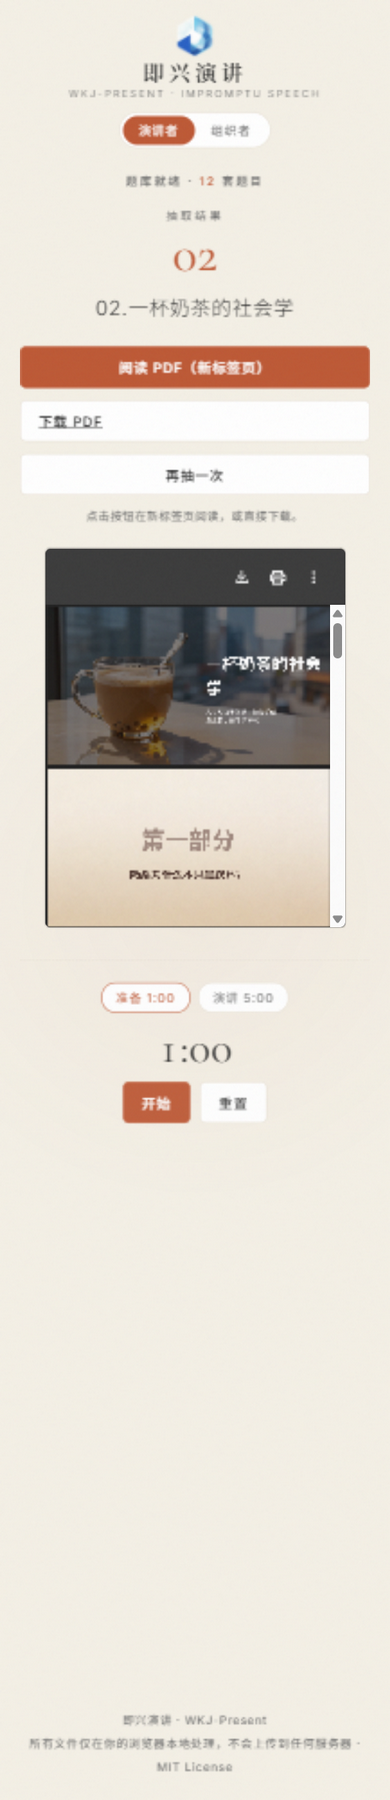
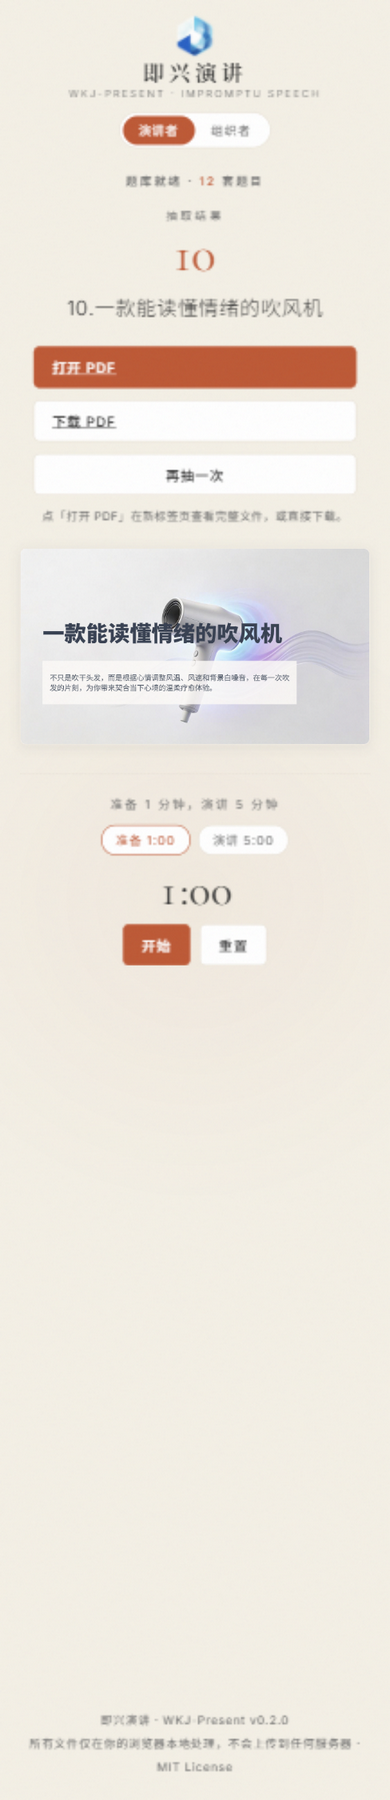
feat: 抽签结果改为页面内第一页预览，打开动作交还用户 (v0.2.0)
- 取消抽签后自动新开标签页；删除相关提示文案
- 结果区按钮调整为「打开 PDF」(锚点原生新开) +「下载 PDF」
- 移除内嵌 iframe 查看器，改为 PDF.js 渲染的 PDF 第一页静态图
  （CDN 懒加载，cdnjs→jsdelivr 依次降级，15s 步骤超时，失败提示不阻断流程）
- 计时区归拢为独立区块，呈现「准备 1 分钟，演讲 5 分钟」
- 同步 README 交互描述与隐私口径；截图表更新为 v0.2.0 界面

diff --git a/index.html b/index.html
@@ -398,15 +398,23 @@
             letter-spacing: 0.08em;
         }
 
-        /* Preview */
-        .preview-frame {
+        /* First-page preview (rendered by PDF.js) */
+        #previewArea {
+            width: 100%;
+            display: flex;
+            flex-direction: column;
+            align-items: center;
+        }
+
+        .page-canvas {
             margin-top: 24px;
             width: 100%;
             max-width: 640px;
-            height: 480px;
+            display: block;
             border: 1px solid var(--color-border);
             border-radius: 6px;
-            background: var(--color-surface-hover);
+            background: #fff;
+            box-shadow: 0 2px 12px rgba(44, 44, 44, 0.08);
         }
 
         .preview-fallback {
@@ -431,6 +439,13 @@
             border-top: 1px dashed var(--color-border);
             text-align: center;
             animation: fadeIn 0.8s ease 0.2s both;
+        }
+
+        .timer-caption {
+            font-size: 0.75rem;
+            letter-spacing: 0.2em;
+            color: var(--color-text-secondary);
+            margin-bottom: 12px;
         }
 
         .timer-presets {
@@ -909,7 +924,7 @@
                 <div class="landed-no" id="landedNo"></div>
                 <h2 class="landed-title" id="landedTitle"></h2>
                 <div class="landed-actions">
-                    <button type="button" class="btn btn-primary" id="openPdfBtn">阅读 PDF（新标签页）</button>
+                    <a class="btn btn-primary" id="openPdfBtn" target="_blank" rel="noopener">打开 PDF</a>
                     <a class="btn" id="downloadPdfBtn" download>下载 PDF</a>
                     <button type="button" class="btn" id="redrawBtn">再抽一次</button>
                 </div>
@@ -918,6 +933,7 @@
 
                 <!-- 计时 -->
                 <section class="timer-section" aria-label="演讲计时器">
+                    <p class="timer-caption">准备 1 分钟，演讲 5 分钟</p>
                     <div class="timer-presets">
                         <button type="button" class="timer-preset active" data-seconds="60" id="presetPrep">准备 1:00</button>
                         <button type="button" class="timer-preset" data-seconds="300" id="presetSpeech">演讲 5:00</button>
@@ -1007,7 +1023,7 @@
     </main>
 
     <footer class="footer">
-        即兴演讲 · WKJ-Present<br>
+        即兴演讲 · WKJ-Present <span id="appVersion">v0.2.0</span><br>
         所有文件仅在你的浏览器本地处理，不会上传到任何服务器 · MIT License
     </footer>
 
@@ -1086,11 +1102,10 @@
             isDrawing: false, // 含滚动动画期间
             isRolling: false,
             pdfUrl: null,
-            preOpenWin: null,
+            renderSeq: 0,     // 第一页渲染令牌：重抽/清空后丢弃过期渲染
             mode: 'stage',    // stage | org
         };
 
-        const isMobile = /Android|iPhone|iPad|iPod|Mobile/i.test(navigator.userAgent);
         const COVER_KEY = 'impromptu_cover';
         const REDUCED_MOTION = window.matchMedia && window.matchMedia('(prefers-reduced-motion: reduce)').matches;
 
@@ -1358,6 +1373,7 @@
             els.landed.hidden = true;
             els.reel.hidden = false; // 定格时滚轮被隐藏，重抽前必须恢复，否则第二次滚动动画不可见
             els.previewArea.innerHTML = '';
+            state.renderSeq++; // 作废进行中的第一页渲染
             els.drawBtn.hidden = false;
             els.btnText.textContent = '启动演讲';
             showIdleReel();
@@ -1382,12 +1398,7 @@
                 return;
             }
 
-            // 用户手势栈内同步预开窗口，避免动画结束后打开被弹窗拦截
-            state.preOpenWin = null;
-            try {
-                state.preOpenWin = window.open('about:blank', '_blank');
-            } catch (e) { /* 被拦截时走页面内兜底按钮 */ }
-
+            // 用户手势内立即进入滚动：不预开任何新标签页，打开 PDF 由用户主动点击
             state.isDrawing = true;
             state.isRolling = true;
             els.drawBtn.disabled = true;
@@ -1484,47 +1495,116 @@
             els.landedTitle.textContent = entry.displayName;
             renderProgress();
 
-            // 打开 PDF：优先写入预开窗口
-            let opened = false;
-            const win = state.preOpenWin;
-            state.preOpenWin = null;
-            if (win && !win.closed) {
-                try {
-                    win.location.href = state.pdfUrl;
-                    opened = true;
-                } catch (e) { opened = false; }
-            }
-
-            els.openPdfBtn.hidden = opened;
-            els.landedNote.textContent = opened
-                ? '已在新标签页打开。若浏览器拦截了弹窗，可点「下载 PDF」，或再抽一次。'
-                : (entry.dirLabel ? `来自 ${entry.dirLabel}/ · ` : '') + '点击按钮在新标签页阅读，或直接下载。';
+            // 抽完留在当前页：打开动作交给用户主动触发（锚点原生新开，不用 window.open）
+            els.landedNote.textContent = (entry.dirLabel ? `来自 ${entry.dirLabel}/ · ` : '') + '点「打开 PDF」在新标签页查看完整文件，或直接下载。';
 
             els.downloadPdfBtn.href = state.pdfUrl;
             els.downloadPdfBtn.setAttribute('download', entry.name);
-            els.openPdfBtn.onclick = () => {
-                const url = URL.createObjectURL(entry.file);
-                window.open(url, '_blank');
-                setTimeout(() => URL.revokeObjectURL(url), 60000);
-            };
+            els.openPdfBtn.href = state.pdfUrl;
 
-            renderPreview(entry);
+            renderFirstPage(entry);
         }
 
-        function renderPreview(entry) {
-            els.previewArea.innerHTML = '';
-            if (isMobile) {
+        /* ================= 第一页预览（PDF.js 懒加载 + 本机渲染） ================= */
+        const PDFJS_CDN_LIST = [
+            'https://cdnjs.cloudflare.com/ajax/libs/pdf.js/3.11.174/',
+            'https://cdn.jsdelivr.net/npm/pdfjs-dist@3.11.174/build/',
+        ];
+        const PDFJS_STEP_TIMEOUT = 15000;
+        let pdfjsReady = null;
+
+        function withTimeout(promise, ms) {
+            return Promise.race([
+                promise,
+                new Promise((_, reject) => setTimeout(() => reject(new Error('timeout')), ms)),
+            ]);
+        }
+
+        function loadPdfJsFrom(base) {
+            return new Promise((resolve, reject) => {
+                const s = document.createElement('script');
+                s.src = base + 'pdf.min.js';
+                s.onload = () => {
+                    try {
+                        resolve(window.pdfjsLib);
+                    } catch (e) { reject(e); }
+                };
+                s.onerror = () => reject(new Error('PDF.js 脚本加载失败'));
+                document.head.appendChild(s);
+            });
+        }
+
+        function loadPdfJs() {
+            if (window.pdfjsLib) return Promise.resolve(window.pdfjsLib);
+            if (!pdfjsReady) {
+                pdfjsReady = (async () => {
+                    for (const base of PDFJS_CDN_LIST) {
+                        try {
+                            return await withTimeout(loadPdfJsFrom(base), PDFJS_STEP_TIMEOUT);
+                        } catch (e) { /* 尝试下一个 CDN */ }
+                    }
+                    return null;
+                })();
+            }
+            return pdfjsReady;
+        }
+
+        async function getDocumentWithRetry(file, seq) {
+            // 单 CDN 的 worker 可能拉取超时：依次换 CDN 重试。
+            // pdf.js 会转移 ArrayBuffer，所以每轮从 File 重新读取，避免重试时数据已 detach。
+            for (const base of PDFJS_CDN_LIST) {
+                try {
+                    const data = await file.arrayBuffer();
+                    if (seq !== state.renderSeq) return null;
+                    window.pdfjsLib.GlobalWorkerOptions.workerSrc = base + 'pdf.worker.min.js';
+                    const pdf = await withTimeout(window.pdfjsLib.getDocument({ data }).promise, PDFJS_STEP_TIMEOUT);
+                    if (seq !== state.renderSeq) return null;
+                    return pdf;
+                } catch (e) { /* 尝试下一个 CDN */ }
+            }
+            throw new Error('PDF 解析失败');
+        }
+
+        function renderFirstPage(entry) {
+            const area = els.previewArea;
+            area.innerHTML = '';
+            const seq = ++state.renderSeq;
+
+            const loading = document.createElement('div');
+            loading.className = 'preview-fallback';
+            loading.textContent = '正在渲染第一页…';
+            area.appendChild(loading);
+
+            (async () => {
+                const lib = await loadPdfJs();
+                if (!lib) throw new Error('PDF.js 不可用');
+                if (seq !== state.renderSeq) return;
+                const pdf = await getDocumentWithRetry(entry.file, seq);
+                if (!pdf || seq !== state.renderSeq) return;
+                const page = await withTimeout(pdf.getPage(1), PDFJS_STEP_TIMEOUT);
+                if (seq !== state.renderSeq) return;
+                // 固定 640 逻辑像素为渲染基准（容器在 flex 列布局中宽度会塌缩，不可依赖 clientWidth）
+                const dpr = Math.min(window.devicePixelRatio || 1, 2);
+                const base = page.getViewport({ scale: 1 });
+                const viewport = page.getViewport({ scale: (640 * dpr) / base.width });
+                const canvas = document.createElement('canvas');
+                canvas.className = 'page-canvas';
+                canvas.width = Math.round(viewport.width);
+                canvas.height = Math.round(viewport.height);
+                canvas.style.aspectRatio = `${canvas.width} / ${canvas.height}`;
+                canvas.title = `${entry.displayName}（第 1 页）`;
+                await withTimeout(page.render({ canvasContext: canvas.getContext('2d'), viewport }).promise, PDFJS_STEP_TIMEOUT);
+                if (seq !== state.renderSeq) return;
+                area.innerHTML = '';
+                area.appendChild(canvas);
+            })().catch(() => {
+                if (seq !== state.renderSeq) return;
+                area.innerHTML = '';
                 const tip = document.createElement('div');
                 tip.className = 'preview-fallback';
-                tip.textContent = '手机浏览器对页面内嵌 PDF 预览支持不稳定，请点击上方「阅读 PDF」在新标签页打开，效果更可靠。';
-                els.previewArea.appendChild(tip);
-                return;
-            }
-            const frame = document.createElement('iframe');
-            frame.className = 'preview-frame';
-            frame.title = `PDF 预览：${entry.displayName}`;
-            frame.src = state.pdfUrl;
-            els.previewArea.appendChild(frame);
+                tip.textContent = '第一页预览渲染失败（渲染库来自公共 CDN，可能被当前网络拦截）。PDF 文件本身不受影响，可用「打开 PDF」或「下载 PDF」查看。';
+                area.appendChild(tip);
+            });
         }
 
         /* ================= Timer ================= */

diff --git a/README.md b/README.md
@@ -16,8 +16,8 @@
 
 1. 点击「启动演讲」，题目在滚轮中加速滚动；
 2. 滚轮减速、定格，揭晓题号和题目——抽中之前你不知道会是什么；
-3. 定格后下方立即展示这套 PDF，可内嵌阅读、新标签页打开或下载；
-4. 再往下是计时器：准备 1:00 → 演讲 5:00，最后 30 秒变红提醒。
+3. 定格后页面内直接渲染这套 PDF 的第一页，先看清要讲的是什么；想看完整文件再点「打开 PDF」（新标签页）或「下载 PDF」；
+4. 下方是计时器：准备 1:00 → 演讲 5:00，最后 30 秒变红提醒。
 
 | ① 待机 | ② 滚动抽取 | ③ 定格：PDF 与计时 |
 | --- | --- | --- |
@@ -82,7 +82,7 @@ python -m http.server 8000
 ### 演讲者视图（打开页面默认看到的就是它）
 
 - 滚动抽取：等概率抽取，先定结果、后放动画，定格的必然是抽中的那套；
-- 揭晓即阅读：PDF 内嵌预览（桌面端）+「新标签页打开 / 下载」按钮；浏览器拦截弹窗时按钮兜底，没有死路；
+- 揭晓即预览：定格后在页面内渲染 PDF 第一页（PDF.js 客户端渲染，桌面与手机端一致）；「打开 PDF / 下载 PDF」按钮随时可用，打开动作由你主动触发，抽完不会被强制跳页；
 - 计时开讲：准备 1:00 / 演讲 5:00 两档，开始 / 暂停 / 重置；
 - 空格 / 回车键也可抽签；空库时给出明确引导。
 
@@ -101,7 +101,7 @@ python -m http.server 8000
 
 - 你导入的 PDF **只在浏览器内存中被读取和展示**，没有任何网络请求会发送文件内容；
 - 首页图片（如选择上传）仅保存在你本地浏览器的 localStorage，不经过任何服务器；
-- 页面唯一的第三方请求是 Google Fonts 字体（可自行移除 `<head>` 中的两行 `<link>`，回退到系统字体）。
+- 页面的第三方请求只有两处：Google Fonts 字体，以及渲染第一页预览时按需加载的 PDF.js 渲染库（公共 CDN，仅加载代码）；PDF 文件内容本身始终只在你的浏览器内解析。两者都可自行移除（删掉 `<head>` 中的字体 `<link>`，或接受预览降级提示）。
 
 ## 浏览器兼容与已知限制（如实说明）
 
@@ -112,8 +112,8 @@ python -m http.server 8000
 | 文件夹选择 | Chrome / Edge / Firefox / Safari 现代版均支持；不支持的浏览器请用「添加 PDF 文件」多选入口 |
 | 只收录直接子文件 | 选择文件夹时**只收录其中的直接 PDF 文件**，子文件夹中的文件会被跳过并有提示 |
 | 文件夹内容变化 | 浏览器无法持续监控磁盘目录——文件夹内容变化后需**重新选择导入** |
-| PDF 内嵌预览 | 桌面浏览器在结果卡下方内嵌预览；**手机浏览器内嵌 PDF 支持不稳定**，移动端自动替换为「新标签页打开」提示 |
-| 弹窗拦截 | 抽签会在你的点击手势内同步预开新标签页以绕过拦截；若仍被拦截，结果卡上的「阅读 PDF / 下载 PDF」按钮始终可用 |
+| 第一页预览 | 由 PDF.js 在你的浏览器内渲染（渲染库按需从公共 CDN 加载，cdnjs 失败自动切换 jsdelivr，均不可达时预览区提示降级，「打开 PDF / 下载 PDF」不受影响）；桌面与手机端均显示第一页图片 |
+| 弹窗行为 | 抽签后**不会自动打开任何新标签页**；是否打开完整 PDF、何时打开，完全由你点「打开 PDF」决定 |
 
 ## 目录结构
 
